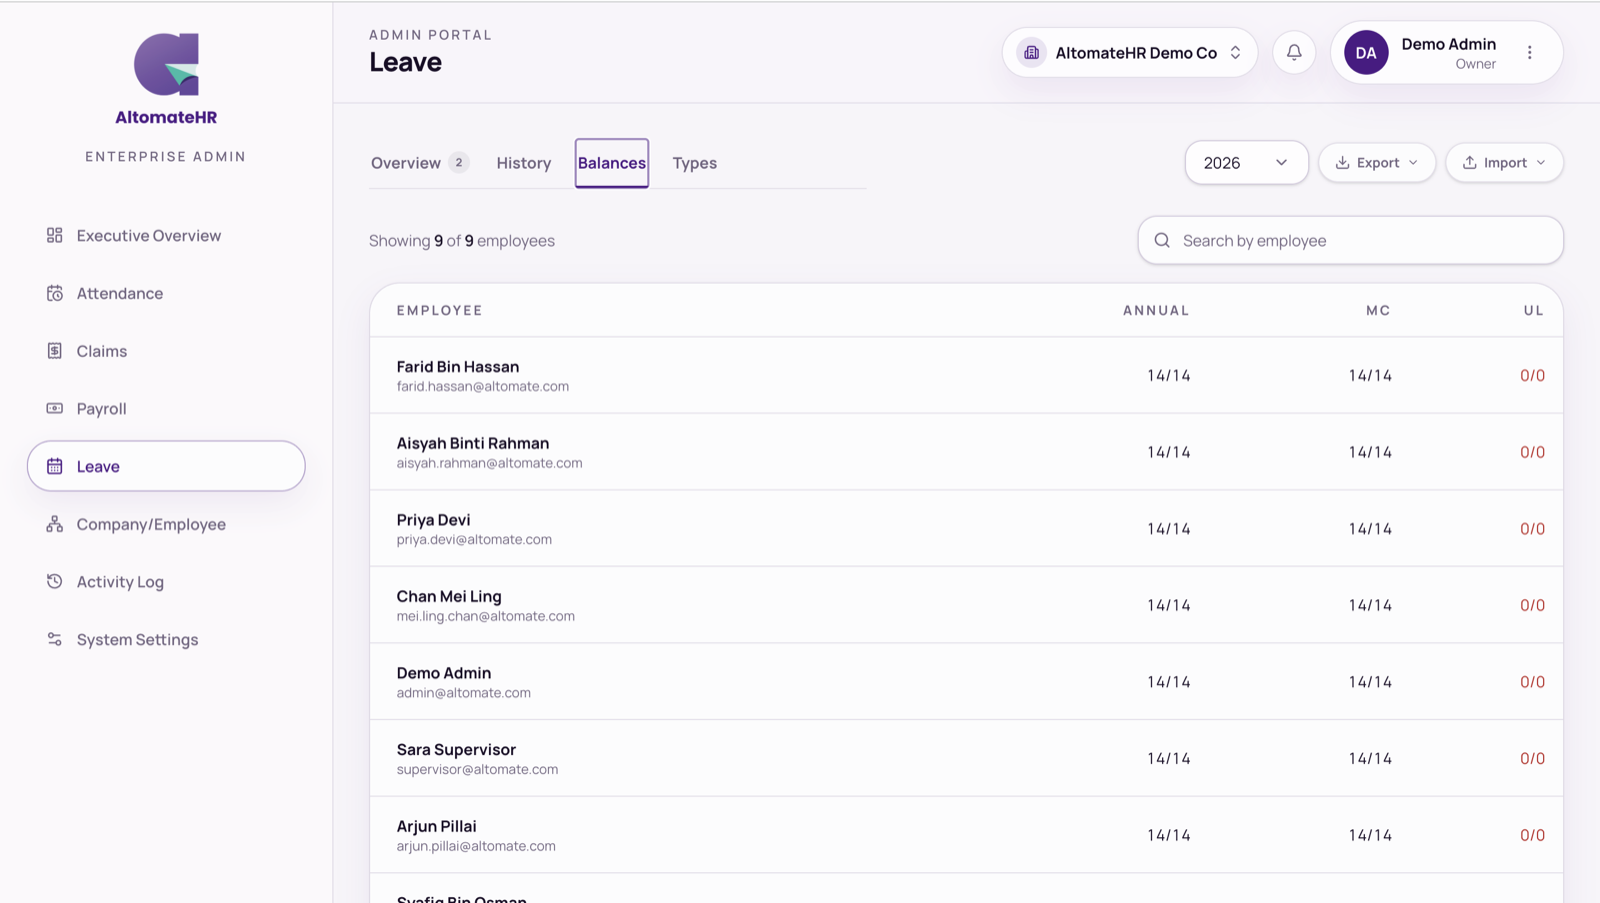
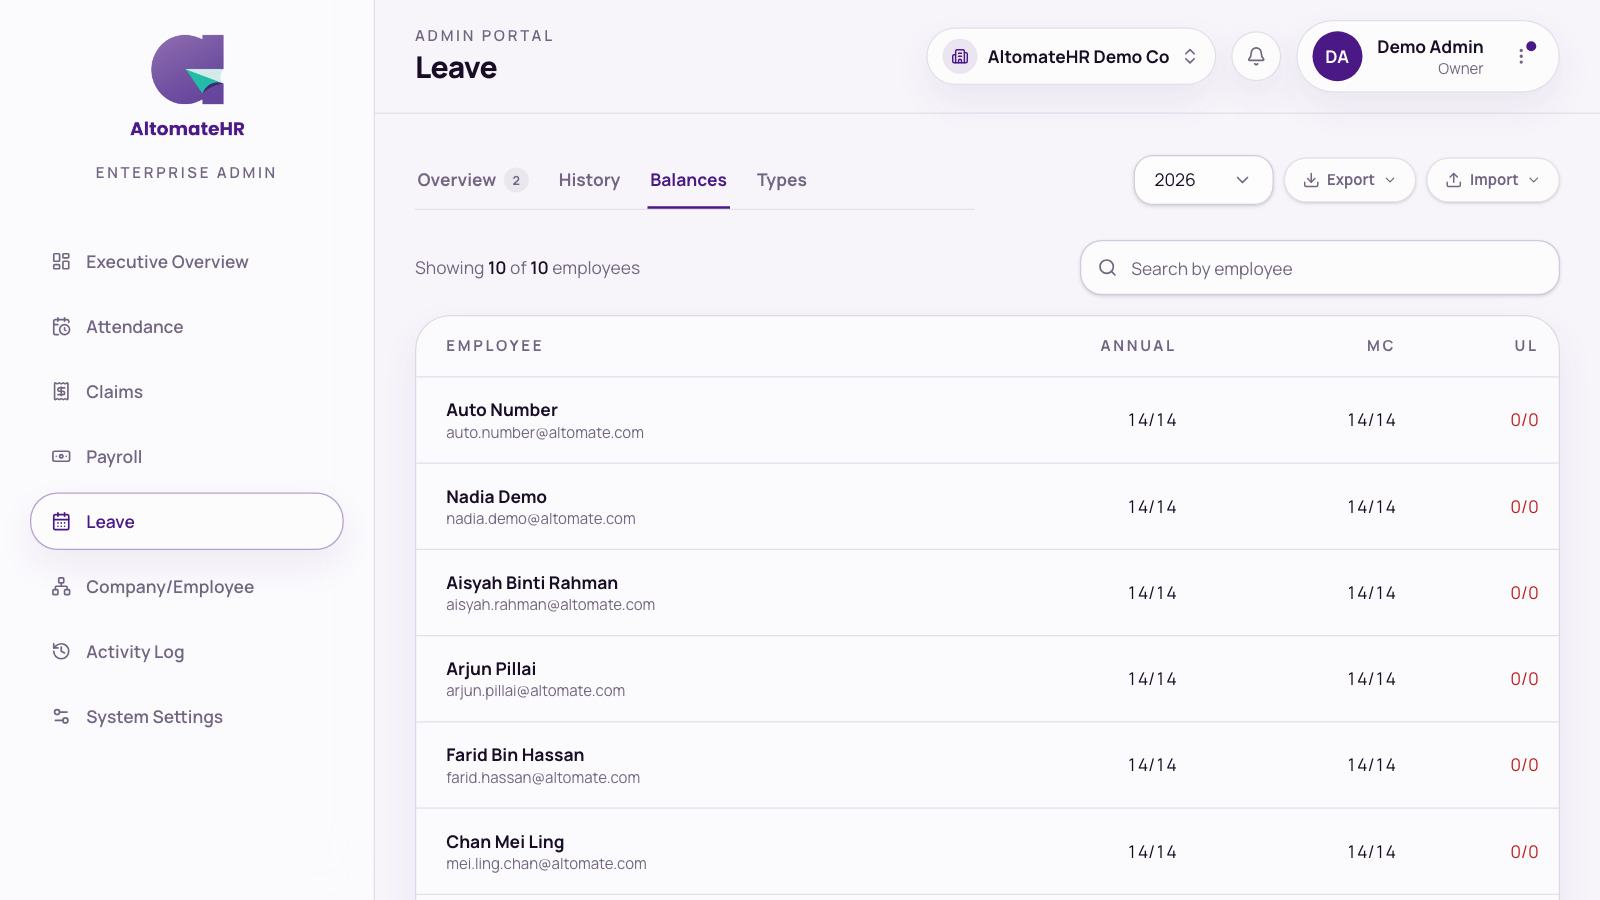
docs: what's new, API docs and user guides for the Xero callback and staff-only rosters

diff --git a/user-guide/altomatehr-admin-guide.html b/user-guide/altomatehr-admin-guide.html
@@ -7,7 +7,7 @@
   Bookmark: this page is correct as of this commit on main. The next update
   re-checks every user-visible change after it — from any branch — then
   moves it forward.
-  user-guide-covered-up-to: 5e4cf24
+  user-guide-covered-up-to: 48268b1
 -->
 <html lang="en">
 <head>
@@ -955,7 +955,8 @@
     <ul>
       <li><strong>Today</strong> — the roll call. Status chips with live counts: <em>On time</em>, <em>Late</em>,
         <em>On-site</em>, <em>Off-site</em>, <em>No clock-in</em>, <em>On leave</em>. Click one to filter. Off-site rows show
-        how far away they were and the reason they gave, with photos and a map link.</li>
+        how far away they were and the reason they gave, with photos and a map link. Only staff (Employees and
+        Supervisors) are listed — the Owner and admins don't appear, and the <strong>Employees</strong> tab lists the same people.</li>
       <li><strong>Analytics</strong> — hours worked against the schedule: normal, expected, beyond shift, approved OT,
         rest day and holiday.</li>
       <li><strong>Performance</strong> — how long each supervisor takes to decide.</li>
@@ -1051,7 +1052,8 @@
       <li><strong>History</strong> — every application, filtered by person, type, dates and status. An approved leave
         an employee has asked to cancel shows a <em>Cancellation requested</em> tag (or <em>Cancellation declined</em>
         if their approver said no).</li>
-      <li><strong>Balances</strong> — everyone's remaining days per leave type. Open a person to
+      <li><strong>Balances</strong> — every staff member's remaining days per leave type (Employees and Supervisors; the
+        Owner and admins aren't listed, and aren't in the export either). Open a person to
         <span class="btn-name">Apply on behalf</span> (recorded as approved straight away), change or reset their
         entitlement, or export their leave report.</li>
       <li><strong>Types</strong> — your leave types (code, name, annual days, paid or unpaid), and for Annual Leave:
@@ -1357,6 +1359,9 @@
         <strong>Payroll → Settings → Xero sync</strong>, the expense lines offer expense accounts and the payables
         (EPF, SOCSO, EIS, PCB, net salary) offer liability accounts — sync from Xero first if a list is empty. A saved
         account of the wrong type is flagged so you can pick again.</li>
+      <li><strong>If a Connect or Reconnect doesn't finish</strong> while Xero is still connected, the card shows a
+        calm note that nothing changed and the organisation is still connected. Reloading the page after a successful
+        connect no longer shows "Xero didn't finish connecting".</li>
       <li><strong>Reconnect</strong> if the card says the connection has stopped working; <strong>Disconnect</strong>
         removes AltomateHR from that Xero organisation.</li>
     </ul>

diff --git a/api-docs/leave.html b/api-docs/leave.html
@@ -433,7 +433,7 @@
           <span class="path">/leave/balances/all</span>
           <span class="tag scope">leave:read</span>
         </div>
-        <p>Every member of the company with their balances for a year — the admin grid, in one call.</p>
+        <p>Every staff member of the company (role <code>Employee</code> or <code>Supervisor</code>) with their balances for a year — the admin grid, in one call. The Owner and admins aren't on the leave roster and are left out.</p>
         <h3>Request</h3>
         <div class="table-wrap">
           <table>
@@ -462,7 +462,7 @@
               <tr><td><code>userId</code></td><td>string</td><td>The user id.</td></tr>
               <tr><td><code>email</code></td><td>string</td><td></td></tr>
               <tr><td><code>name</code></td><td>string | null</td><td></td></tr>
-              <tr><td><code>role</code></td><td>string</td><td><code>Employee</code>, <code>Supervisor</code>, <code>Admin</code> or <code>Owner</code>. Admins and owners are listed too.</td></tr>
+              <tr><td><code>role</code></td><td>string</td><td><code>Employee</code> or <code>Supervisor</code>. Admins and owners are not listed.</td></tr>
               <tr><td><code>balances</code></td><td>object[]</td><td>The leave balance shape, one per active leave type.</td></tr>
               <tr><td><code>teamId</code>, <code>teamName</code>, <code>projectId</code>, <code>projectName</code></td><td>string | null</td><td>Always <code>null</code> on this endpoint.</td></tr>
             </tbody>
@@ -1168,8 +1168,8 @@
         </div>
         <p>
           One summary PDF per person, zipped (<code>leave-summaries-2026.zip</code>, files named
-          <code>{email}_{year}.pdf</code>). Leave out <code>employeeIds</code> for everyone in the
-          company.
+          <code>{email}_{year}.pdf</code>). Leave out <code>employeeIds</code> for every staff member
+          (<code>Employee</code> or <code>Supervisor</code>; the Owner and admins are not included).
         </p>
         <h3>Request</h3>
         <div class="table-wrap">
@@ -1177,7 +1177,7 @@
             <thead><tr><th>Query</th><th>Type</th><th>Required</th><th>Notes</th></tr></thead>
             <tbody>
               <tr><td><code>year</code></td><td>number</td><td>No</td><td>2000–2100. Default: the current year.</td></tr>
-              <tr><td><code>employeeIds</code></td><td>string, repeated</td><td>No</td><td><code>employeeIds=emp_123&amp;employeeIds=emp_124</code>. Ids that aren't members are ignored.</td></tr>
+              <tr><td><code>employeeIds</code></td><td>string, repeated</td><td>No</td><td><code>employeeIds=emp_123&amp;employeeIds=emp_124</code>. Ids that aren't staff members of the company are ignored.</td></tr>
             </tbody>
           </table>
         </div>

diff --git a/frontend/src/features/whats-new/lib/entries.ts b/frontend/src/features/whats-new/lib/entries.ts
@@ -8,7 +8,7 @@
 //
 // Bookmark: the last commit on main these notes already cover. The next update
 // writes up everything after it — from any branch — then moves it forward.
-// whats-new-covered-up-to: 5e4cf24
+// whats-new-covered-up-to: 48268b1
 
 export type WhatsNewEntry = {
   /** Release day, yyyy-MM-dd (Malaysia time). Also what "unread" compares. */
@@ -21,6 +21,13 @@ export type WhatsNewEntry = {
 };
 
 export const WHATS_NEW: WhatsNewEntry[] = [
+  {
+    date: "2026-10-08",
+    fixed: [
+      "Xero: reloading the connection page after a successful connect no longer shows 'Xero didn't finish connecting'. A failed reconnection attempt while still connected shows a calm 'nothing changed — still connected' note instead of an error.",
+      "Attendance (Today, Employees tab) and Leave balances/bulk export now list staff only — the Owner and admins no longer appear.",
+    ],
+  },
   {
     date: "2026-10-07",
     new: [

diff --git a/api-docs/index.html b/api-docs/index.html
@@ -25,7 +25,7 @@
   Bookmark: the pages that exist are correct as of this commit on main. The
   next update re-checks every controller/DTO changed after it — from any
   branch — then moves it forward.
-  api-docs-covered-up-to: 5e4cf24
+  api-docs-covered-up-to: 48268b1
 -->
 <div class="layout">
   <nav class="sidebar" aria-label="Documentation">

diff --git a/user-guide/altomatehr-employee-guide.html b/user-guide/altomatehr-employee-guide.html
@@ -7,7 +7,7 @@
   Bookmark: this page is correct as of this commit on main. The next update
   re-checks every user-visible change after it — from any branch — then
   moves it forward.
-  user-guide-covered-up-to: 5e4cf24
+  user-guide-covered-up-to: 48268b1
 -->
 <html lang="en">
 <head>
